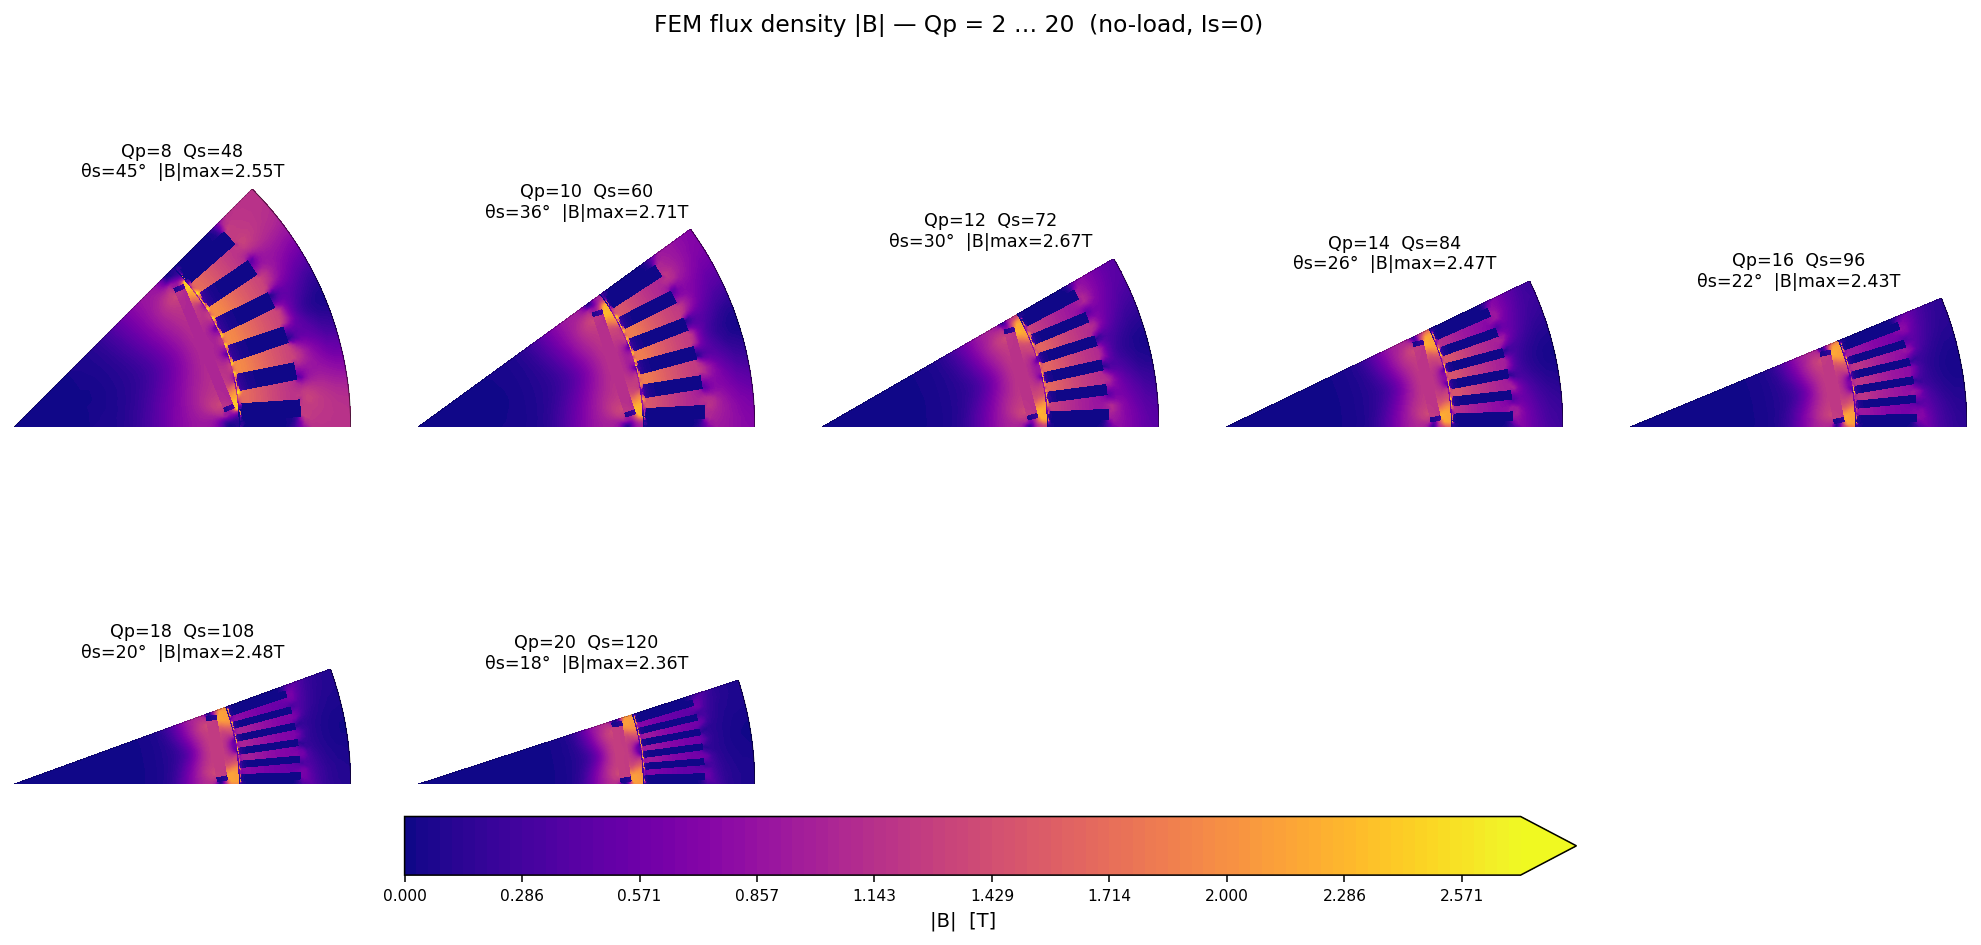
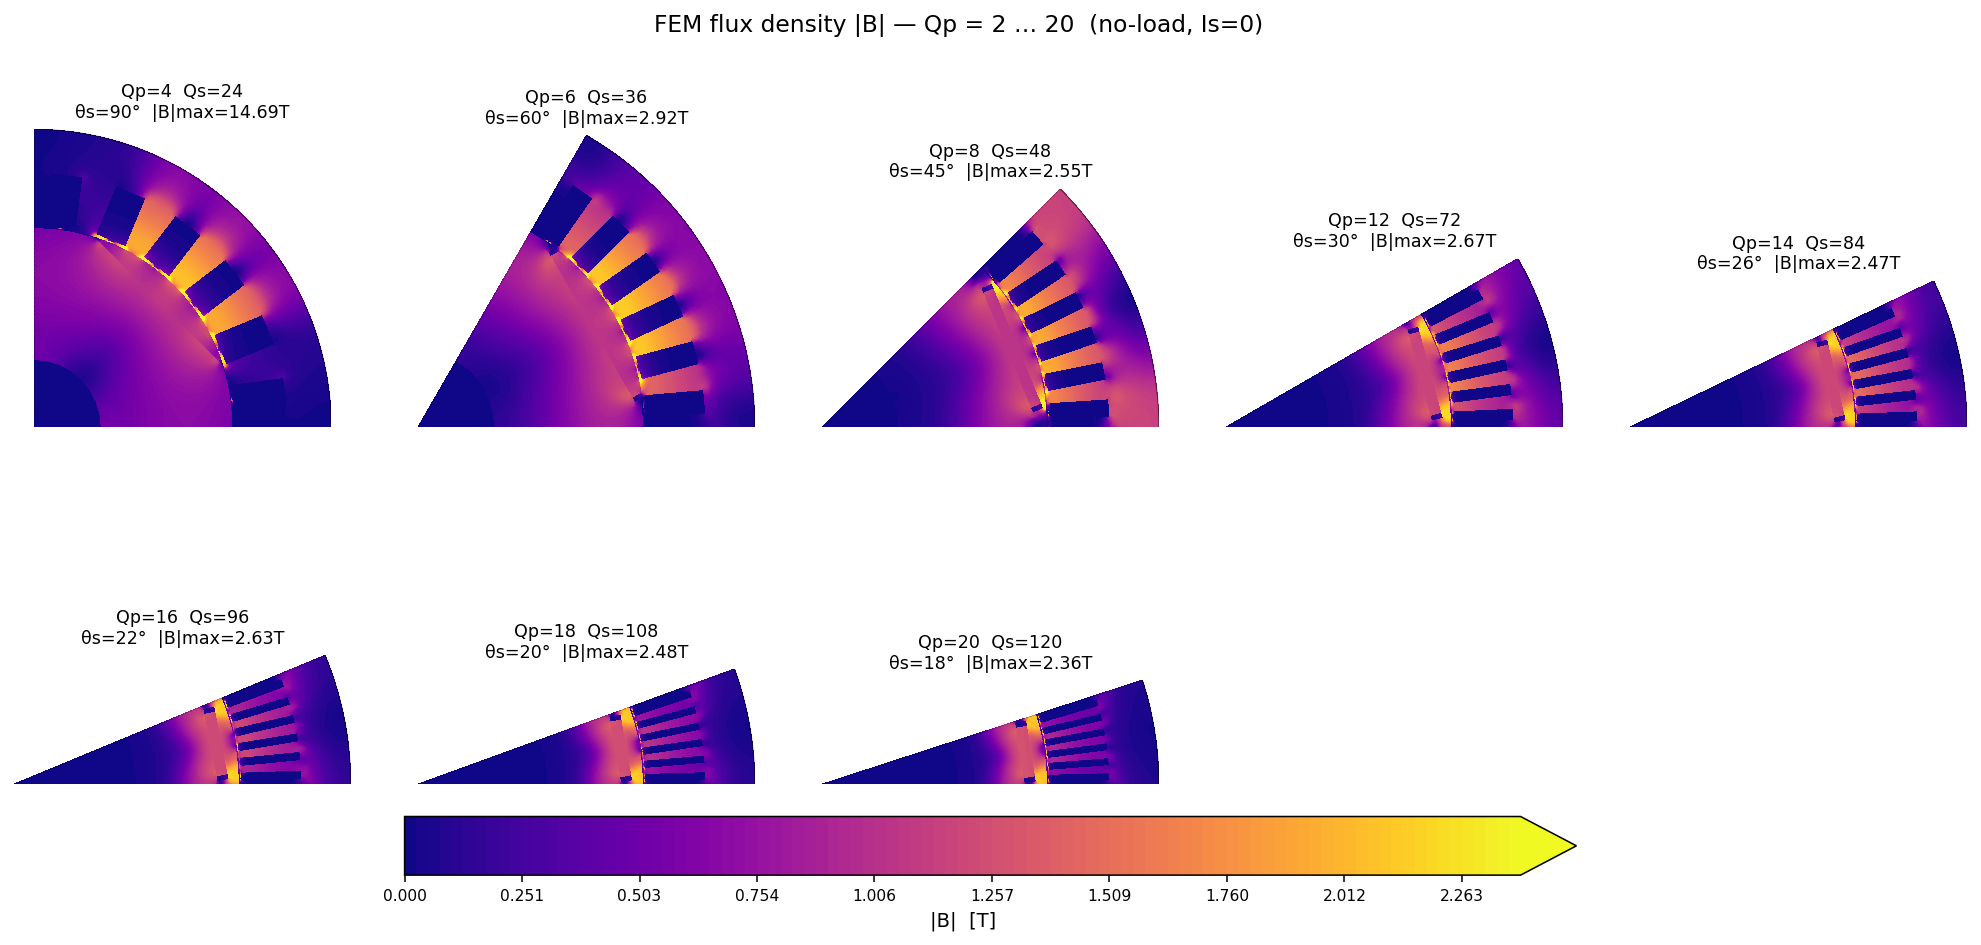
Generalise gen_mesh sector-boundary classifier; clip flux colormap
* gen_mesh.py: `_classify_sector_bounds` was hardcoded for the 45°
  sector geometry — the left-boundary check tested `abs(x − y) < 0.5`,
  which is the line y=x and only matches Qp=8. Replaces with the
  pole-count-agnostic check `|x·sin(θs) − y·cos(θs)| < 0.5`
  (perpendicular distance from origin to the radial line through
  angle θs). Mirrors the existing fix in gen_stator/gen_rotor.
  This unblocks Qp=4 and Qp=6 in the multi-Qp flux script (the
  Stator_Left/Rotor_Left physical groups were silently empty before
  → Conforming-BC error in Elmer).

* plot_flux_multi_pole.py: clip the shared colormap to the 99.5th
  percentile of all |B| values (and additionally cap at 3 T, well
  above iron saturation). Without this, a single corner-node outlier
  in one mesh (~14 T at the Qp=4 sector apex) dominated the colour
  scale and washed out every other panel. Refreshes the rendered PNG.

Qp=10 still fails (Conforming BC at sector edges — gmsh produces
non-matching node distributions on Right and Left after the geometry
classifier finds them correctly). Skipped at runtime; needs
gmsh.model.mesh.setPeriodic or similar to enforce conforming
periodic meshes — left as a follow-up.

diff --git a/gen_mesh.py b/gen_mesh.py
@@ -78,16 +78,30 @@ def _curve_length(occ, ctag):
     return occ.getMass(1, ctag)
 
 
-def _classify_sector_bounds(model, curve_set, excl):
+def _classify_sector_bounds(model, curve_set, excl, theta_s):
+    """Split curves into right (θ=0) and left (θ=θs) sector boundaries.
+
+    For any pole count: right boundary lies on +x axis (y≈0); left
+    boundary lies on the line x·sin(θs)−y·cos(θs)=0 with the dot
+    (x·cos(θs)+y·sin(θs)) positive (i.e. pointing outward from origin).
+    """
+    sin_s = math.sin(theta_s)
+    cos_s = math.cos(theta_s)
     right, left = [], []
     for c in sorted(curve_set - excl):
         x1, y1, _, x2, y2, _ = model.getBoundingBox(1, c)
         xm, ym = (x1 + x2) / 2, (y1 + y2) / 2
         if math.hypot(xm, ym) < 0.5:
             continue
+        # Right boundary: on +x axis
         if abs(y1) < 0.5 and abs(y2) < 0.5 and xm > 1.0:
             right.append(c)
-        elif abs(x1-y1) < 0.5 and abs(x2-y2) < 0.5 and xm > 1.0 and ym > 1.0:
+            continue
+        # Left boundary: on line through origin at angle theta_s
+        d1 = abs(x1 * sin_s - y1 * cos_s)
+        d2 = abs(x2 * sin_s - y2 * cos_s)
+        dot = xm * cos_s + ym * sin_s
+        if d1 < 0.5 and d2 < 0.5 and dot > 1.0:
             left.append(c)
     return right, left
 
@@ -431,8 +445,8 @@ def build_mesh(
     all_stator_curves = iron_curves | slot_curves | gap_s_curves
     all_rotor_curves  = (iron_r_curves | gap_r_curves | mag_curves
                          | pkt_curves | shaft_curves)
-    st_right, st_left = _classify_sector_bounds(model, all_stator_curves, excl)
-    ro_right, ro_left = _classify_sector_bounds(model, all_rotor_curves, excl)
+    st_right, st_left = _classify_sector_bounds(model, all_stator_curves, excl, p.θs)
+    ro_right, ro_left = _classify_sector_bounds(model, all_rotor_curves, excl, p.θs)
 
     pg(1, domain_tags, "Domain")
     pg(1, sb_stator,   "SB_Stator")

diff --git a/plot_flux_multi_pole.py b/plot_flux_multi_pole.py
@@ -173,8 +173,14 @@ def main() -> None:
     if skipped:
         print(f"Skipped Qp values (mesh / mortar BC failure): {skipped}")
 
-    vmax = max(B.max() for _, _, _, _, B in panels)
-    print(f"Global |B| max for shared colormap: {vmax:.2f} T")
+    # Clip colormap to robust 99th percentile to ignore single-node outliers
+    # at sector corners / degenerate triangles (which can hit ~10+ T from
+    # divergence-free violations on tiny elements).
+    all_B = np.concatenate([B for _, _, _, _, B in panels])
+    vmax = float(np.percentile(all_B, 99.5))
+    vmax = min(vmax, 3.0)  # iron saturates well below 3 T
+    print(f"Global |B| (99.5 percentile, capped at 3.0): {vmax:.2f} T  "
+          f"[raw max: {all_B.max():.2f} T]")
 
     nrows, ncols = 2, 5
     fig, axes = plt.subplots(nrows, ncols, figsize=(18, 7.5))
